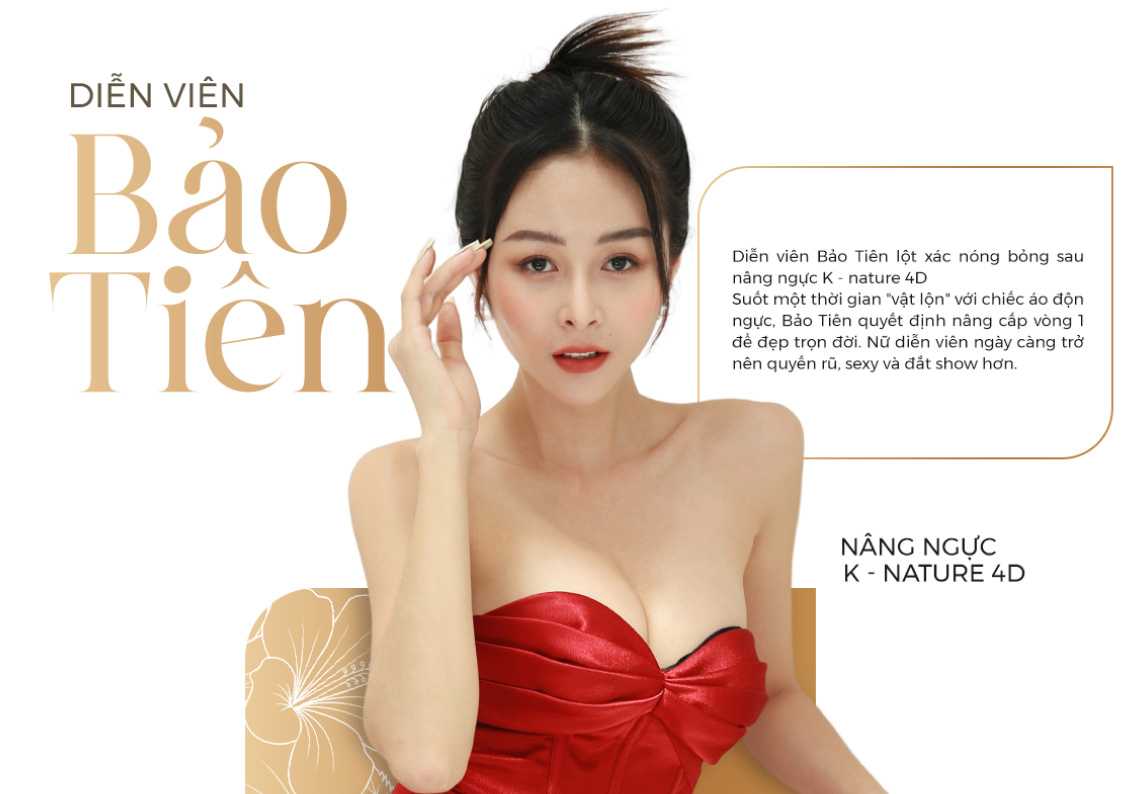
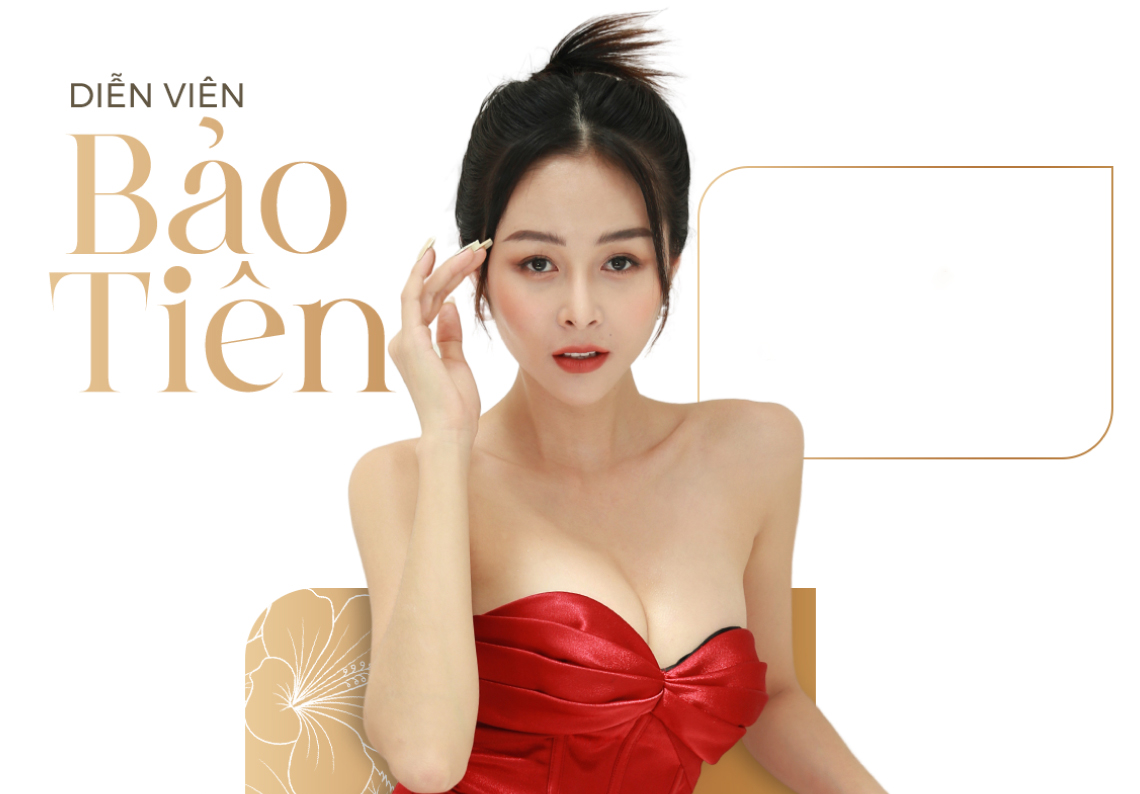
kangnam story

diff --git a/Pages/kangnam-story-bao-tien/media/sass/main.min.css b/Pages/kangnam-story-bao-tien/media/sass/main.min.css
@@ -1,1 +1,1 @@
-.storyDetail_kn_1_0_0__page1 img{width:100%;height:auto;display:block}.storyDetail_kn_1_0_0__page2 img{width:100%;height:auto;display:block}.storyDetail_kn_1_0_0__page3{display:flex;align-items:center}.storyDetail_kn_1_0_0__pic img,.storyDetail_kn_1_0_0__video img,.storyDetail_kn_1_0_0__img img{width:100%;height:auto;display:block}.storyDetail_kn_1_0_0__video img{cursor:pointer}.storyDetail_kn_1_0_0__page4,.storyDetail_kn_1_0_0__page5{display:flex;align-items:center;justify-content:space-between}.storyDetail_kn_1_0_0__note{background:#003c77;padding:25px 5px}.storyDetail_kn_1_0_0__text{color:#fec465;text-align:center;text-transform:uppercase;font-weight:600;font-size:22px;margin:0}.storyDetail_kn_1_0_0__title{color:#003c77;text-align:center;text-transform:uppercase;font-weight:600;font-size:42px;margin-top:50px}.storyDetail_kn_1_0_0__desc{background:#e9f4ff;border-radius:50px;text-align:center;font-weight:500;font-size:20px;padding:15px 0;width:70%;display:block;margin:0 auto}@media(max-width: 820px){.storyDetail_kn_1_0_0__desc{width:100%}}@media(max-width: 430px){.storyDetail_kn_1_0_0__text{font-size:16px}.storyDetail_kn_1_0_0__title{font-size:35px}.storyDetail_kn_1_0_0__desc{font-size:14px;padding:15px}}@media(max-width: 390px){.storyDetail_kn_1_0_0__desc br{display:none}}.doctor_kn_2_1_0{font-family:var(--primary-font)}.doctor_kn_2_1_0__banner{background:url(../images/banner.jpg) center 0 no-repeat;background-size:1920px;min-height:702px;display:flex;align-items:center}.doctor_kn_2_1_0__text{margin-left:auto;width:48%;color:#fff;margin-top:120px}.doctor_kn_2_1_0__text h1{font-family:var(--primary-font);text-transform:uppercase;font-weight:700;font-size:32px;display:block;margin-bottom:10px}.doctor_kn_2_1_0__text p{font-size:16px;font-weight:400;margin:0}.doctor_kn_2_1_0__main{padding:30px 0}.doctor_kn_2_1_0__category{display:flex;justify-content:space-between;align-items:center;gap:20px;border-radius:54px;border:1px solid #000;padding:5px 10px;margin-bottom:20px}.doctor_kn_2_1_0__category ul{margin:0;padding:0;list-style:none;display:flex;align-items:center;justify-content:center;gap:30px;text-align:center}.doctor_kn_2_1_0__category li{cursor:pointer;font-size:16px;transition:all .2s linear}.doctor_kn_2_1_0__category li:hover{font-weight:700}.doctor_kn_2_1_0__category button{font-size:24px;border:none;background:none;cursor:pointer}.doctor_kn_2_1_0__categoryActive{font-weight:700}.doctor_kn_2_1_0__doctor{display:flex;gap:20px;flex-wrap:wrap}.doctor_kn_2_1_0__item{position:relative;width:23%}.doctor_kn_2_1_0__content:hover .doctor_kn_2_1_0__name{color:#b5925b}.doctor_kn_2_1_0__box{position:absolute;bottom:0;left:0;width:100%;background:#f4f4f4;padding:15px}.doctor_kn_2_1_0__info{display:flex;justify-content:space-between;align-items:center;text-transform:uppercase}.doctor_kn_2_1_0__info span{font-size:10px;text-align:center;border-radius:50%;border:1px solid #bdbdbd;display:inline-flex;width:45px;height:45px;justify-content:center;align-items:center;line-height:11px}.doctor_kn_2_1_0__line{height:1px;background:#bdbdbd;margin:10px 0}.doctor_kn_2_1_0__img{overflow:hidden;height:400px}.doctor_kn_2_1_0__img img{width:100%;height:auto;display:block}.doctor_kn_2_1_0__degree{font-size:12px;font-weight:700}.doctor_kn_2_1_0__name{font-family:var(--primary-font);margin:0;font-size:16px;font-weight:700;color:#d0a868;transition:all .2s linear}.doctor_kn_2_1_0__pos{text-align:center;font-size:12px;text-transform:uppercase}.doctor_kn_2_1_0__pagination{margin-top:20px;display:flex;justify-content:center;align-items:center;gap:20px;border-radius:54px}.doctor_kn_2_1_0__pagination ul{margin:0;padding:0;list-style:none;display:flex;align-items:center;justify-content:center;gap:10px}.doctor_kn_2_1_0__pagination ul li{display:inline-flex;width:30px;height:30px;justify-content:center;align-items:center;cursor:pointer;font-size:16px;transition:all .2s linear;border-radius:50%;border:1px solid rgba(0,0,0,0)}.doctor_kn_2_1_0__pagination ul li:hover{border-color:#000}.doctor_kn_2_1_0__pagination button{font-size:18px;border:none;background:none;cursor:pointer}.doctor_kn_2_1_0__active{border-color:#000 !important}@media(max-width: 1440px){.doctor_kn_2_1_0__banner{background-size:1440px;min-height:525px}}@media(max-width: 1200px){.doctor_kn_2_1_0__img{height:360px}}@media(max-width: 1180px){.doctor_kn_2_1_0__text span{font-size:28px}.doctor_kn_2_1_0__text p{font-size:14px}}@media(max-width: 1024px){.doctor_kn_2_1_0__img{height:35vw}}@media(max-width: 912px){.doctor_kn_2_1_0__banner{background-size:1080px;min-height:396px}.doctor_kn_2_1_0__item{width:31%}.doctor_kn_2_1_0__img{height:40vw}.doctor_kn_2_1_0__text{width:50%;margin-top:30px}.doctor_kn_2_1_0__text span{font-size:23px}}@media(max-width: 767px){.doctor_kn_2_1_0__info span{position:absolute;top:-50px;right:7px;background:rgba(255,255,255,.5)}.doctor_kn_2_1_0__item{position:relative;background:#f4f4f4}.doctor_kn_2_1_0__name{font-size:13px}.doctor_kn_2_1_0__pos{display:none}.doctor_kn_2_1_0__line{display:none}.doctor_kn_2_1_0__banner{display:none}.doctor_kn_2_1_0__doctor{justify-content:center}.doctor_kn_2_1_0__category li{font-size:14px;display:none}.doctor_kn_2_1_0__category li.doctor_kn_2_1_0__categoryActive{display:block}.doctor_kn_2_1_0__box{padding:10px}.doctor_kn_2_1_0__doctor{gap:10px}.doctor_kn_2_1_0__img{height:270px}.doctor_kn_2_1_0__item{width:48%}}@media(max-width: 374px){.doctor_kn_2_1_0__item{width:100%;max-width:216px}}/*# sourceMappingURL=main.min.css.map */
+.storyDetail_kn_1_0_0__page1{position:relative}.storyDetail_kn_1_0_0__page1 img{width:100%;height:auto;display:block}.storyDetail_kn_1_0_0__intro{position:absolute;width:30%;top:225px;right:60px;margin:0;font-size:15px;font-weight:500;font-family:var(--primary-font)}.storyDetail_kn_1_0_0__nameService{position:absolute;right:120px;bottom:184px;font-size:22px;font-weight:500;text-transform:uppercase;line-height:28px}.storyDetail_kn_1_0_0__page2 img{width:100%;height:auto;display:block}.storyDetail_kn_1_0_0__page3{display:flex;align-items:center}.storyDetail_kn_1_0_0__pic img,.storyDetail_kn_1_0_0__video img,.storyDetail_kn_1_0_0__img img{width:100%;height:auto;display:block}.storyDetail_kn_1_0_0__video{position:relative}.storyDetail_kn_1_0_0__video img{cursor:pointer}.storyDetail_kn_1_0_0__play{width:90px !important;position:absolute;top:calc(50% - 40px);left:calc(50% - 40px)}.storyDetail_kn_1_0_0__play:hover{animation:spin .8s linear}.storyDetail_kn_1_0_0__page4,.storyDetail_kn_1_0_0__page5{display:flex;align-items:center;justify-content:space-between}.storyDetail_kn_1_0_0__note{background:#003c77;padding:25px 5px}.storyDetail_kn_1_0_0__text{color:#fec465;text-align:center;text-transform:uppercase;font-weight:600;font-size:22px;margin:0;font-family:var(--primary-font)}.storyDetail_kn_1_0_0__title{color:#003c77;text-align:center;text-transform:uppercase;font-weight:600;font-size:42px;margin-top:50px;font-family:var(--primary-font)}.storyDetail_kn_1_0_0__desc{background:#e9f4ff;border-radius:50px;text-align:center;font-weight:600;font-size:20px;padding:15px 0;width:70%;display:block;margin:0 auto;font-family:var(--primary-font)}@media(max-width: 1200px){.storyDetail_kn_1_0_0__intro{top:162px;right:44px}.storyDetail_kn_1_0_0__nameService{right:68px;bottom:155px}}@media(max-width: 960px){.storyDetail_kn_1_0_0__intro{top:148px;font-size:14px}.storyDetail_kn_1_0_0__nameService{right:68px;bottom:155px}}@media(max-width: 880px){.storyDetail_kn_1_0_0__intro{top:123px;right:24px;font-size:12px}.storyDetail_kn_1_0_0__nameService{right:20px;bottom:112px}.storyDetail_kn_1_0_0__desc{width:100%}}@media(max-width: 767px){.storyDetail_kn_1_0_0__intro{display:none}.storyDetail_kn_1_0_0__nameService{display:none}}@media(max-width: 430px){.storyDetail_kn_1_0_0__text{font-size:16px}.storyDetail_kn_1_0_0__title{font-size:35px}.storyDetail_kn_1_0_0__desc{font-size:14px;padding:15px}.storyDetail_kn_1_0_0__play{width:42px !important;top:calc(50% - 26px);left:calc(50% - 26px)}}@media(max-width: 390px){.storyDetail_kn_1_0_0__desc br{display:none}}.doctor_kn_2_1_0{font-family:var(--primary-font)}.doctor_kn_2_1_0__banner{background:url(../images/banner.jpg) center 0 no-repeat;background-size:1920px;min-height:702px;display:flex;align-items:center}.doctor_kn_2_1_0__text{margin-left:auto;width:48%;color:#fff;margin-top:120px}.doctor_kn_2_1_0__text h1{font-family:var(--primary-font);text-transform:uppercase;font-weight:700;font-size:32px;display:block;margin-bottom:10px}.doctor_kn_2_1_0__text p{font-size:16px;font-weight:400;margin:0}.doctor_kn_2_1_0__main{padding:30px 0}.doctor_kn_2_1_0__category{display:flex;justify-content:space-between;align-items:center;gap:20px;border-radius:54px;border:1px solid #000;padding:5px 10px;margin-bottom:20px}.doctor_kn_2_1_0__category ul{margin:0;padding:0;list-style:none;display:flex;align-items:center;justify-content:center;gap:30px;text-align:center}.doctor_kn_2_1_0__category li{cursor:pointer;font-size:16px;transition:all .2s linear}.doctor_kn_2_1_0__category li:hover{font-weight:700}.doctor_kn_2_1_0__category button{font-size:24px;border:none;background:none;cursor:pointer}.doctor_kn_2_1_0__categoryActive{font-weight:700}.doctor_kn_2_1_0__doctor{display:flex;gap:20px;flex-wrap:wrap}.doctor_kn_2_1_0__item{position:relative;width:23%}.doctor_kn_2_1_0__content:hover .doctor_kn_2_1_0__name{color:#b5925b}.doctor_kn_2_1_0__box{position:absolute;bottom:0;left:0;width:100%;background:#f4f4f4;padding:15px}.doctor_kn_2_1_0__info{display:flex;justify-content:space-between;align-items:center;text-transform:uppercase}.doctor_kn_2_1_0__info span{font-size:10px;text-align:center;border-radius:50%;border:1px solid #bdbdbd;display:inline-flex;width:45px;height:45px;justify-content:center;align-items:center;line-height:11px}.doctor_kn_2_1_0__line{height:1px;background:#bdbdbd;margin:10px 0}.doctor_kn_2_1_0__img{overflow:hidden;height:400px}.doctor_kn_2_1_0__img img{width:100%;height:auto;display:block}.doctor_kn_2_1_0__degree{font-size:12px;font-weight:700}.doctor_kn_2_1_0__name{font-family:var(--primary-font);margin:0;font-size:16px;font-weight:700;color:#d0a868;transition:all .2s linear}.doctor_kn_2_1_0__pos{text-align:center;font-size:12px;text-transform:uppercase}.doctor_kn_2_1_0__pagination{margin-top:20px;display:flex;justify-content:center;align-items:center;gap:20px;border-radius:54px}.doctor_kn_2_1_0__pagination ul{margin:0;padding:0;list-style:none;display:flex;align-items:center;justify-content:center;gap:10px}.doctor_kn_2_1_0__pagination ul li{display:inline-flex;width:30px;height:30px;justify-content:center;align-items:center;cursor:pointer;font-size:16px;transition:all .2s linear;border-radius:50%;border:1px solid rgba(0,0,0,0)}.doctor_kn_2_1_0__pagination ul li:hover{border-color:#000}.doctor_kn_2_1_0__pagination button{font-size:18px;border:none;background:none;cursor:pointer}.doctor_kn_2_1_0__active{border-color:#000 !important}@media(max-width: 1440px){.doctor_kn_2_1_0__banner{background-size:1440px;min-height:525px}}@media(max-width: 1200px){.doctor_kn_2_1_0__img{height:360px}}@media(max-width: 1180px){.doctor_kn_2_1_0__text span{font-size:28px}.doctor_kn_2_1_0__text p{font-size:14px}}@media(max-width: 1024px){.doctor_kn_2_1_0__img{height:35vw}}@media(max-width: 912px){.doctor_kn_2_1_0__banner{background-size:1080px;min-height:396px}.doctor_kn_2_1_0__item{width:31%}.doctor_kn_2_1_0__img{height:40vw}.doctor_kn_2_1_0__text{width:50%;margin-top:30px}.doctor_kn_2_1_0__text span{font-size:23px}}@media(max-width: 767px){.doctor_kn_2_1_0__info span{position:absolute;top:-50px;right:7px;background:rgba(255,255,255,.5)}.doctor_kn_2_1_0__item{position:relative;background:#f4f4f4}.doctor_kn_2_1_0__name{font-size:13px}.doctor_kn_2_1_0__pos{display:none}.doctor_kn_2_1_0__line{display:none}.doctor_kn_2_1_0__banner{display:none}.doctor_kn_2_1_0__doctor{justify-content:center}.doctor_kn_2_1_0__category li{font-size:14px;display:none}.doctor_kn_2_1_0__category li.doctor_kn_2_1_0__categoryActive{display:block}.doctor_kn_2_1_0__box{padding:10px}.doctor_kn_2_1_0__doctor{gap:10px}.doctor_kn_2_1_0__img{height:270px}.doctor_kn_2_1_0__item{width:48%}}@media(max-width: 374px){.doctor_kn_2_1_0__item{width:100%;max-width:216px}}/*# sourceMappingURL=main.min.css.map */

diff --git a/Pages/kangnam-story-bao-tien/media/sass/main.scss b/Pages/kangnam-story-bao-tien/media/sass/main.scss
@@ -1,10 +1,33 @@
 .storyDetail_kn_1_0_0 {
     &__page1 {
+        position: relative;
+
         img {
             width: 100%;
             height: auto;
             display: block;
         }
+    }
+
+    &__intro {
+        position: absolute;
+        width: 30%;
+        top: 225px;
+        right: 60px;
+        margin: 0;
+        font-size: 15px;
+        font-weight: 500;
+        font-family: var(--primary-font);
+    }
+
+    &__nameService {
+        position: absolute;
+        right: 120px;
+        bottom: 184px;
+        font-size: 22px;
+        font-weight: 500;
+        text-transform: uppercase;
+        line-height: 28px;
     }
 
     &__page2 {
@@ -31,8 +54,21 @@
     }
 
     &__video {
+        position: relative;
+
         img {
             cursor: pointer;
+        }
+    }
+
+    &__play {
+        width: 90px !important;
+        position: absolute;
+        top: calc(50% - 40px);
+        left: calc(50% - 40px);
+
+        &:hover {
+            animation: spin .8s linear;
         }
     }
 
@@ -55,6 +91,7 @@
         font-weight: 600;
         font-size: 22px;
         margin: 0;
+        font-family: var(--primary-font);
     }
 
     &__title {
@@ -64,23 +101,70 @@
         font-weight: 600;
         font-size: 42px;
         margin-top: 50px;
+        font-family: var(--primary-font);
     }
 
     &__desc {
         background: #E9F4FF;
         border-radius: 50px;
         text-align: center;
-        font-weight: 500;
+        font-weight: 600;
         font-size: 20px;
         padding: 15px 0;
         width: 70%;
         display: block;
         margin: 0 auto;
+        font-family: var(--primary-font);
     }
 
-    @media (max-width: 820px) {
+    @media (max-width: 1200px) {
+        &__intro {
+            top: 162px;
+            right: 44px;
+        }
+
+        &__nameService {
+            right: 68px;
+            bottom: 155px;
+        }
+    }
+
+    @media (max-width: 960px) {
+        &__intro {
+            top: 148px;
+            font-size: 14px;
+        }
+
+        &__nameService {
+            right: 68px;
+            bottom: 155px;
+        }
+    }
+
+    @media (max-width: 880px) {
+        &__intro {
+            top: 123px;
+            right: 24px;
+            font-size: 12px;
+        }
+
+        &__nameService {
+            right: 20px;
+            bottom: 112px;
+        }
+
         &__desc {
             width: 100%;
+        }
+    }
+
+    @media (max-width: 767px) {
+        &__intro {
+            display: none;
+        }
+
+        &__nameService {
+            display: none;
         }
     }
 
@@ -96,6 +180,12 @@
         &__desc {
             font-size: 14px;
             padding: 15px;
+        }
+
+        &__play {
+            width: 42px !important;
+            top: calc(50% - 26px);
+            left: calc(50% - 26px);
         }
     }
 

diff --git a/Pages/kangnam-story/media/sass/main.min.css b/Pages/kangnam-story/media/sass/main.min.css
@@ -1,1 +1,1 @@
-.story_kn_1_0_0__banner{width:100%}.story_kn_1_0_0__banner img{width:100%;height:auto;display:block}.story_kn_1_0_0__box{display:flex;flex-wrap:wrap;align-items:center;gap:40px;padding:30px}.story_kn_1_0_0__item{width:calc(33% - 24px)}.story_kn_1_0_0__pic{width:100%}.story_kn_1_0_0__pic img{width:100%;height:auto;display:block}.story_kn_1_0_0__info{background:#e9f4ff;padding:15px 20px}.story_kn_1_0_0__name{margin:0;text-transform:uppercase;font-weight:600;font-size:18px;margin-bottom:5px}.story_kn_1_0_0__service{margin:0;padding-left:30px}.story_kn_1_0_0__service li{font-size:16px}@media(max-width: 820px){.story_kn_1_0_0__item{width:calc(33% - 25px)}.story_kn_1_0_0__name{font-size:16px}}@media(max-width: 640px){.story_kn_1_0_0__box{gap:16px;padding:16px}.story_kn_1_0_0__item{width:calc(50% - 8px)}.story_kn_1_0_0__service{padding-left:25px}.story_kn_1_0_0__service li{font-size:14px}.story_kn_1_0_0__banner{margin-top:-10px}.story_kn_1_0_0 .container{padding:0}}@media(max-width: 320px){.story_kn_1_0_0__item{width:100%}}/*# sourceMappingURL=main.min.css.map */
+.story_kn_1_0_0__banner{width:100%}.story_kn_1_0_0__banner img{width:100%;height:auto;display:block}.story_kn_1_0_0__box{display:flex;flex-wrap:wrap;align-items:center;gap:40px;padding:30px}.story_kn_1_0_0__item{width:calc(33% - 24px)}.story_kn_1_0_0__pic{width:100%}.story_kn_1_0_0__pic img{width:100%;height:auto;display:block}.story_kn_1_0_0__info{background:#e9f4ff;padding:15px 20px}.story_kn_1_0_0__name{margin:0;text-transform:uppercase;font-weight:600;font-size:18px;margin-bottom:5px;font-family:var(--primary-font)}.story_kn_1_0_0__service{margin:0;padding-left:30px}.story_kn_1_0_0__service li{font-size:16px;font-family:var(--primary-font)}@media(max-width: 820px){.story_kn_1_0_0__item{width:calc(33% - 25px)}.story_kn_1_0_0__name{font-size:16px}}@media(max-width: 640px){.story_kn_1_0_0__box{gap:16px;padding:16px}.story_kn_1_0_0__item{width:calc(50% - 8px)}.story_kn_1_0_0__service{padding-left:25px}.story_kn_1_0_0__service li{font-size:14px}.story_kn_1_0_0__banner{margin-top:-10px}.story_kn_1_0_0 .container{padding:0}}@media(max-width: 320px){.story_kn_1_0_0__item{width:100%}}/*# sourceMappingURL=main.min.css.map */

diff --git a/Pages/kangnam-story-bao-tien/index.html b/Pages/kangnam-story-bao-tien/index.html
@@ -4,6 +4,7 @@
 <head>
     <meta charset="UTF-8">
     <meta name="viewport" content="width=device-width, initial-scale=1.0">
+    <meta name="robots" content="noindex, follow">
     <link rel="stylesheet" href="https://benhvienthammykangnam.vn/css/lib/lib.min.css">
     <link rel="stylesheet" href="media/sass/main.min.css">
     <title>Kangnam Story Detail</title>
@@ -14,9 +15,17 @@
         <div class="container">
             <div class="storyDetail_kn_1_0_0__page1">
                 <picture>
-                    <source media="(min-width:640px)" srcset="media/images/img-page1.jpg">
+                    <source media="(min-width:767px)" srcset="media/images/img-page1.jpg">
                     <img width="640" height="478" src="media/images/img-page1-mb.jpg" alt="">
                 </picture>
+                <p class="storyDetail_kn_1_0_0__intro">
+                    Diễn viên Bảo Tiên lột xác nóng bỏng sau nâng ngực K - nature 4D <br> Suốt một thời gian "vật lộn"
+                    với chiếc áo độn ngực. Bảo Tiên quyết định nâng cấp vòng 1 để đẹp trọn đời. Nữ diễn viên ngày càng
+                    trở nên quyến rũ, sexy và đắt show hơn.
+                </p>
+                <p class="storyDetail_kn_1_0_0__nameService">
+                    Nâng ngực <br> K - nature 4D
+                </p>
             </div>
             <div class="storyDetail_kn_1_0_0__page2">
                 <img width="1140" height="1496" class="lazy" src="media/images/img-page2.jpg" alt="">
@@ -43,6 +52,8 @@
             <div class="storyDetail_kn_1_0_0__page5">
                 <div class="storyDetail_kn_1_0_0__video modal-clip" data-video="F1eR4TIKKrQ" data-modal="modal-clip">
                     <img width="748" height="247" class="lazy" src="media/images/img1-page5.jpg" alt="">
+                    <img class="storyDetail_kn_1_0_0__play" width="100" height="100" src="media/images/icon-play.png"
+                        alt="">
                 </div>
                 <div class="storyDetail_kn_1_0_0__pic">
                     <img width="389" height="426" class="lazy" src="media/images/img2-page5.jpg" alt="">

diff --git a/Pages/kangnam-story/index.html b/Pages/kangnam-story/index.html
@@ -4,6 +4,7 @@
 <head>
     <meta charset="UTF-8">
     <meta name="viewport" content="width=device-width, initial-scale=1.0">
+    <meta name="robots" content="noindex, follow">
     <link rel="stylesheet" href="https://benhvienthammykangnam.vn/css/lib/lib.min.css">
     <link rel="stylesheet" href="media/sass/main.min.css">
     <title>Kangnam Story</title>

diff --git a/Pages/kangnam-story/media/sass/main.scss b/Pages/kangnam-story/media/sass/main.scss
@@ -42,6 +42,7 @@
         font-weight: 600;
         font-size: 18px;
         margin-bottom: 5px;
+        font-family: var(--primary-font);
     }
 
     &__service {
@@ -50,6 +51,7 @@
 
         li {
             font-size: 16px;
+            font-family: var(--primary-font);
         }
     }
 
